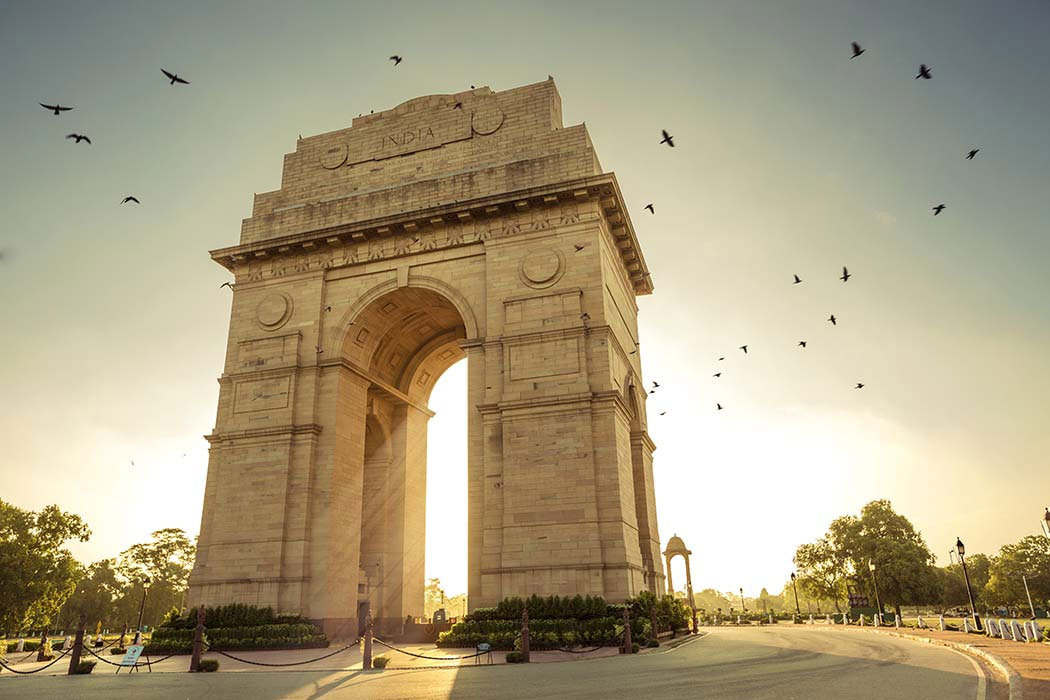
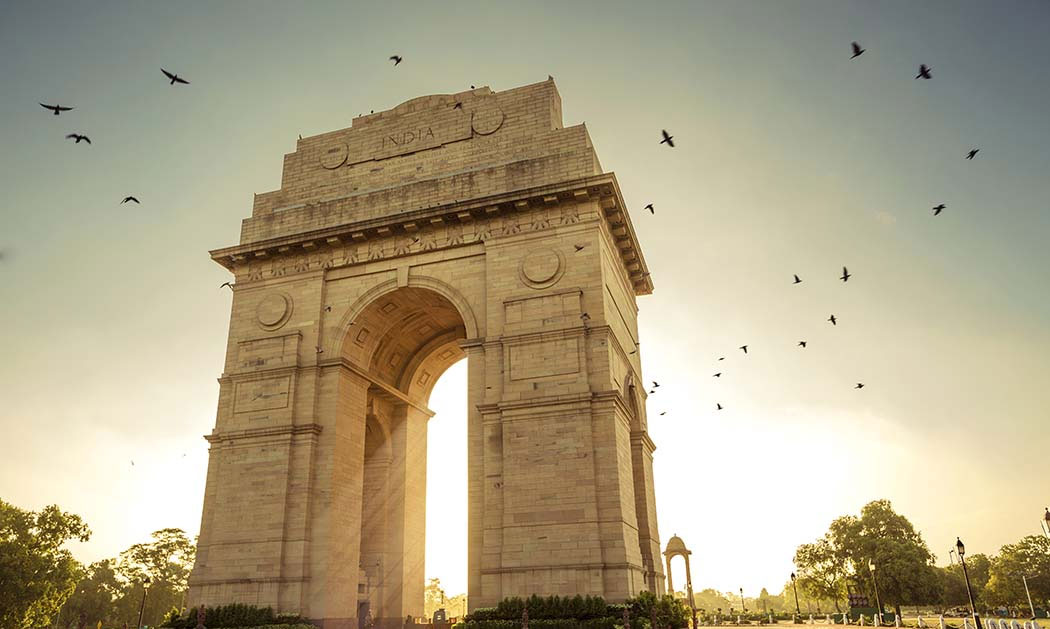
destination

diff --git a/views/content/destination.html b/views/content/destination.html
@@ -1,11 +1,12 @@
 <div class="destinaiton">
   <div class="img-holder-destination relate">
-    <img src="img/info.jpg" alt="travel-libro" class="full-width">
+    <!-- <img src="img/destination/info.jpg" alt="travel-libro" class="full-width"> -->
+    <div class="overlay"></div>
     <div class="get-center country-title">
-      <h4>India</h4>
+      <h4 class="color-white title-head">India</h4>
     </div>
     <div class="list-horizontal">
-      <ul class="dest-right">
+      <ul class="dest-right color-white">
         <li>
           <div class="right-label">
             <label for="">
@@ -58,7 +59,7 @@
         </li>
         <li>
           <div class="right-label">
-            <a href="#">Read</a>
+            <a class="color-white" href="#">Read</a>
           </div>
         </li>
       </ul>
@@ -67,16 +68,26 @@
 </div>
 
 <div class="destination-nav">
-  <ul class="inline-block">
-    <li>Featured Cities</li>
-    <li>Must Do’s</li>
-    <li>Itineraries</li>
-    <li>Bookings</li>
-    <li>Best Time To Visit</li>
-  </ul>
-  <div class="inline-block">
-    <form action="">
-      <input type="text" class="form-control" placeholder="Search Destination">
-    </form>
+  <div class="container-fluid">
+    <div class="col-md-8">
+      <ul class="list-inline">
+        <li>Featured Cities</li>
+        <li>Must Do’s</li>
+        <li>Itineraries</li>
+        <li>Bookings</li>
+        <li>Best Time To Visit</li>
+      </ul>
+    </div>
+    <div class="col-md-4">
+      <form action="">
+        <div class="input-search">
+          <div class="input-group">
+            <input type="text" class="form-control" placeholder="Search Destination">
+            <span class="input-group-addon"><i class="fa fa-search" aria-hidden="true"></i>
+</span>
+          </div>
+        </div>
+      </form>
+    </div>
   </div>
 </div>

diff --git a/sass/_sohan.scss b/sass/_sohan.scss
@@ -1,0 +1,70 @@
+.destinaiton {
+  .img-holder-destination {
+    height: 100vh;
+    width: 100%;
+    background: url('../img/destination/info.jpg') no-repeat;
+    background-size: cover;
+    background-position: center center;
+  }
+  .overlay {
+    background: rgba(0, 0, 0, 0.2);
+    position: absolute;
+    top: 0;
+    bottom: 0;
+    left: 0;
+    right: 0;
+  }
+  .list-horizontal {
+    position: absolute;
+    top: 10%;
+    width: 150px;
+    right: 30px;
+    text-align: center;
+    ul {
+      li {
+        height: 16vh;
+        @extend .avenir-roman;
+      }
+    }
+  }
+  .country-title h4 {
+    font-size: 40px;
+    margin: 0;
+    @extend .avenir-heavy;
+    @extend .heading-blog;
+  }
+}
+.destination-nav {
+  background: #ebebeb;
+  ul {
+    li {
+      padding: 8px 0;
+      margin: 0 20px;
+      @extend .avenir-medium;
+      cursor: pointer;
+      @include transition(all ease 300ms);
+      border-bottom: 3px solid transparent;
+      &:hover {
+        border-color: $brand-dark-pink;
+        color: lighten(#000,20%);
+      }
+    }
+  }
+  .input-search {
+    .form-control {
+      background: transparent;
+      border: 0;
+      height: 30px;
+    }
+    .input-group {
+      border-bottom: 1px solid #ddd;
+    }
+  }
+  .input-group-addon {
+    background-color: transparent;
+    border: 0;
+    border-radius: 0;
+    color: #232d4a;
+    cursor: pointer;
+  }
+}
